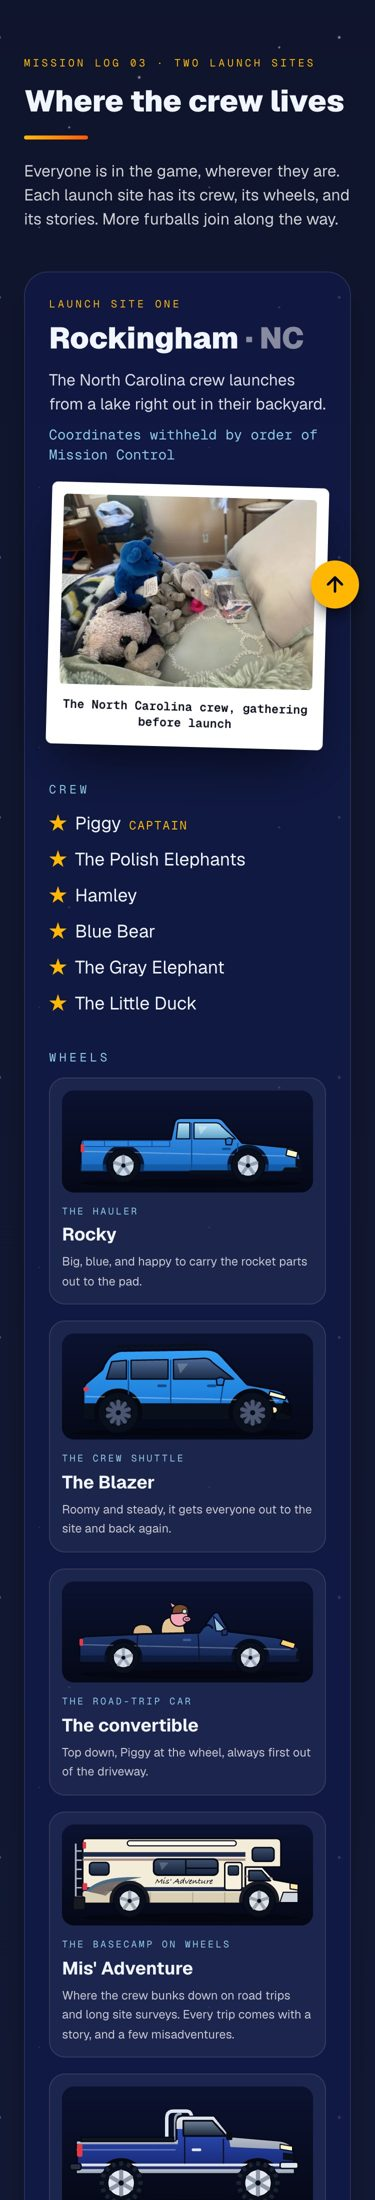
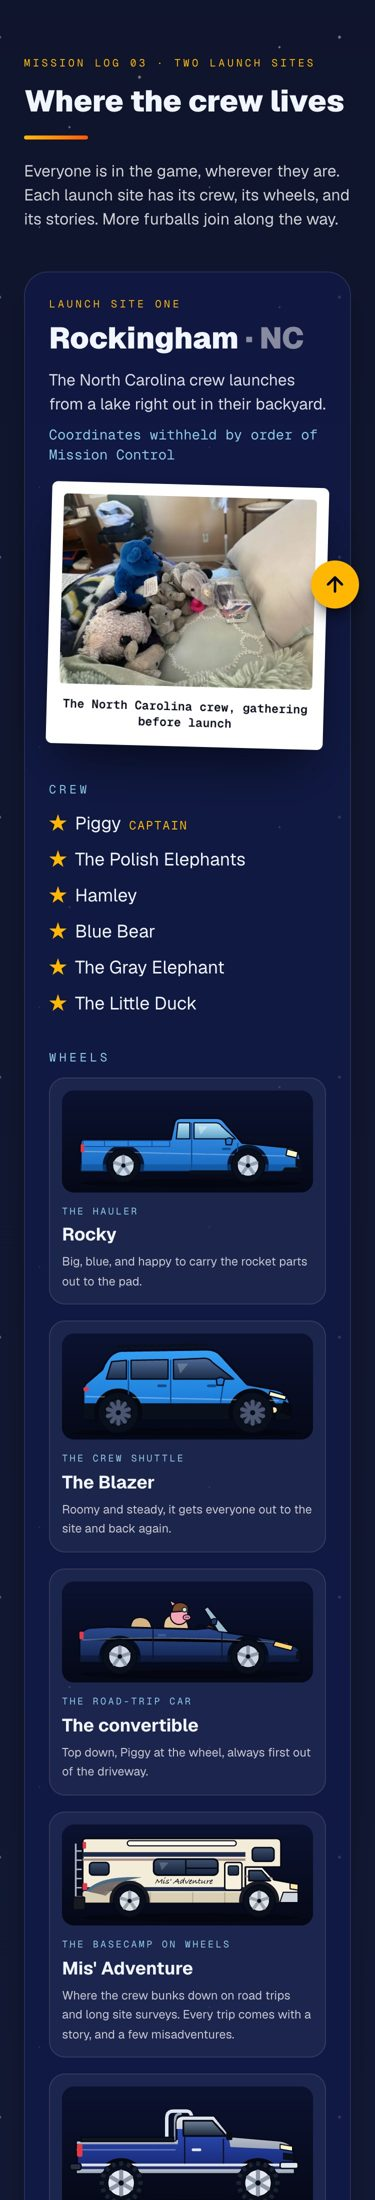
feat: redraw the convertible from the recon photos, and the S10 dragster quest in the ledger

diff --git a/apps/web/src/components/fleet/Convertible.tsx b/apps/web/src/components/fleet/Convertible.tsx
@@ -1,10 +1,11 @@
 import Wheel from "./Wheel";
 
-// The convertible: a low, dark blue drop-top with a tan interior, roof down. Piggy is at the wheel,
+// The convertible: a long, low, dark blue drop-top with a tan interior, silver wheels, and the roof
+// folded away, from the reference photos. Piggy is at the wheel,
 // proposed, he is the first to jump at a road trip. An original drawing, no plates, badges,
 // logos, or backgrounds.
 const BODY =
-  "M 22,152 L 22,118 Q 22,110 32,108 L 130,104 L 224,102 L 246,72 Q 250,66 256,68 L 274,100 L 340,108 Q 380,112 392,130 L 394,146 Q 394,152 386,152 Z";
+  "M 22,152 L 22,116 Q 22,98 38,94 L 70,92 L 218,96 L 240,94 L 272,102 L 340,112 Q 378,116 392,130 L 394,146 Q 394,152 386,152 Z";
 
 export default function Convertible() {
   return (
@@ -21,11 +22,12 @@ export default function Convertible() {
       <ellipse cx="210" cy="172" rx="186" ry="7" fill="#000" opacity="0.35" />
       <g className="fleet-body">
         {/* interior, seats and dash, behind the side of the car */}
-        <path d="M 112,104 Q 112,88 128,88 Q 144,88 146,104 Z" fill="#d6b384" stroke="#050816" strokeWidth="2" strokeLinejoin="round" />
-        <path d="M 160,104 Q 158,76 178,76 Q 198,76 200,104 Z" fill="#e3c394" stroke="#050816" strokeWidth="2" strokeLinejoin="round" />
-        <path d="M 226,102 L 242,86 L 262,100 Z" fill="#4a3822" stroke="#050816" strokeWidth="2" strokeLinejoin="round" />
+        <path d="M 108,96 Q 108,76 124,76 Q 142,76 144,96 Z" fill="#d6b384" stroke="#050816" strokeWidth="2" strokeLinejoin="round" />
+        <path d="M 164,96 Q 162,72 182,72 Q 204,72 206,96 Z" fill="#e3c394" stroke="#050816" strokeWidth="2" strokeLinejoin="round" />
+        <path d="M 40,94 L 108,90 L 108,98 L 38,100 Z" fill="#12161f" />
+        <path d="M 228,98 L 240,88 L 262,102 Z" fill="#4a3822" stroke="#050816" strokeWidth="2" strokeLinejoin="round" />
         {/* Piggy, proposed: a pink pilot pig in a brown aviator cap and goggles */}
-        <g>
+        <g transform="translate(0,-3)">
           <circle cx="190" cy="76" r="15" fill="#f4a6b8" stroke="#050816" strokeWidth="2" />
           <path d="M 178,70 Q 178,54 192,54 Q 206,55 206,68 Z" fill="#7a4a2a" stroke="#050816" strokeWidth="2" strokeLinejoin="round" />
           <path d="M 196,68 q 4,-2 8,1" stroke="#3a2a1a" strokeWidth="3" fill="none" strokeLinecap="round" />
@@ -37,25 +39,25 @@ export default function Convertible() {
         </g>
         <path d={BODY} fill="url(#conv-paint)" stroke="#050816" strokeWidth="3" strokeLinejoin="round" />
         <g clipPath="url(#conv-clip)">
-          <circle cx="96" cy="144" r="32" fill="#050c1c" />
-          <circle cx="310" cy="144" r="32" fill="#050c1c" />
+          <circle cx="90" cy="142" r="35" fill="#050c1c" />
+          <circle cx="306" cy="142" r="35" fill="#050c1c" />
           <rect x="20" y="140" width="380" height="14" fill="#0a1430" opacity="0.6" />
         </g>
         {/* windshield, steering wheel */}
-        <path d="M 248,74 L 270,99 L 252,99 Z" fill="#bfe6f7" opacity="0.8" stroke="#050816" strokeWidth="2" strokeLinejoin="round" />
-        <path d="M 232,92 q 8,-7 14,2" stroke="#050816" strokeWidth="3" fill="none" strokeLinecap="round" />
+        <path d="M 238,58 L 274,102 L 256,100 L 232,62 Z" fill="#bfe6f7" opacity="0.8" stroke="#050816" strokeWidth="2" strokeLinejoin="round" />
+        <path d="M 220,92 q 8,-7 14,2" stroke="#050816" strokeWidth="3" fill="none" strokeLinecap="round" />
         {/* body lines, door handle, mirror */}
-        <path d="M 26,122 L 376,130" stroke="#fff" strokeOpacity="0.28" strokeWidth="2" strokeLinecap="round" />
-        <path d="M 120,106 L 118,148 M 222,104 L 224,148" stroke="#0a1430" strokeWidth="2" />
-        <rect x="196" y="112" width="14" height="4" rx="2" fill="#3b5aa0" />
-        <path d="M 262,98 q 6,-4 10,0 l -2,8 l -8,0 z" fill="#1b3366" stroke="#050816" strokeWidth="2" strokeLinejoin="round" />
+        <path d="M 28,114 Q 200,106 372,120" stroke="#fff" strokeOpacity="0.28" strokeWidth="2" strokeLinecap="round" />
+        <path d="M 146,96 L 146,146 M 262,102 L 262,146" stroke="#0a1430" strokeWidth="2" />
+        <rect x="154" y="104" width="14" height="4" rx="2" fill="#3b5aa0" />
+        <path d="M 244,80 q 6,-4 10,0 l -2,8 l -8,0 z" fill="#1b3366" stroke="#050816" strokeWidth="2" strokeLinejoin="round" />
         {/* lights and front end */}
-        <path d="M 364,113 L 386,120 L 383,129 L 360,122 Z" fill="#ffcf70" stroke="#050816" strokeWidth="2" strokeLinejoin="round" />
+        <path d="M 352,116 L 382,124 L 379,132 L 348,124 Z" fill="#ffcf70" stroke="#050816" strokeWidth="2" strokeLinejoin="round" />
         <path d="M 388,132 L 394,134 L 394,148 L 386,146 Z" fill="#0a0f1c" />
-        <rect x="22" y="112" width="6" height="12" rx="2" fill="#e63946" />
+        <rect x="22" y="100" width="7" height="13" rx="2" fill="#e63946" />
       </g>
-      <Wheel cx={96} cy={144} r={26} rim="#d7dde6" spoke="#9aa8ba" />
-      <Wheel cx={310} cy={144} r={26} rim="#d7dde6" spoke="#9aa8ba" />
+      <Wheel cx={90} cy={142} r={29} rim="#cfd6e0" spoke="#8d99ac" spokes={5} />
+      <Wheel cx={306} cy={142} r={29} rim="#cfd6e0" spoke="#8d99ac" spokes={5} />
     </svg>
   );
 }

diff --git a/docs/characters.md b/docs/characters.md
@@ -79,7 +79,7 @@ public-safe and confirmed, add it to `crew.py` in the same change.
 
 - **The binder is the game's navigation.** The elephants' tabbed binder, colored dividers and all, becomes the main UI, one tab each for the Brief, Research, Missions, Parts, Journal, and Debrief, so the research and journaling they are proud of is the thing the player flips through. The journal pages are the mission debrief. *Proposed, from Rob's binder idea.*
 - **Piggy borrows their devices.** He already winds up at the helm of the iPad Pro and the MacBook Pro, with their own, he can borrow the elephants' and teach them what the buttons do. *Proposed.*
-- **The S10 dragster.** The furballs have been peeking around the Rockingham house and found a Chevy S10 they would like to turn into a dragster, on a Corvette frame of all things, they came up with their own rendering. A great quest for the game, drawn as an original toy-style truck with no sponsor names, logos, or badges. *Proposed, from Rob.*
+- **Quest: build the S10 dragster.** The furballs have been peeking around the Rockingham house and found a Chevy S10 they would like to turn into a dragster, on a Corvette frame of all things, they came up with their own rendering. Rob loves the idea of a quest being to build it. The rendering carries the Helin Racing name on purpose, that is intentional for the game, so the livery keeps it. Drawn as an original toy-style truck, no Corvette or Chevrolet badges. *Proposed quest, Rob's pick.*
 - Keep the binder generic, a tabbed 3-ring binder, no brand marks or logos on the public site.
 
 ## All furballs
@@ -98,6 +98,7 @@ public-safe and confirmed, add it to `crew.py` in the same change.
 | 2026-11-14 | The Blazer | Two side doors, a front door and a mid door, no rear door on the side | confirmed |
 | 2026-11-14 | The Blazer | The crew shuttle | **proposed** |
 | 2026-11-14 | The convertible | A dark blue drop-top with a tan interior | confirmed |
+| 2026-11-14 | The convertible | Long and low, dark blue with silver alloy wheels, a tan top and interior, looks like a Chrysler Sebring, the Polish elephants did the recon and took the photos | confirmed |
 | 2026-11-14 | The convertible | The road-trip car, Piggy at the wheel | **proposed** |
 | 2026-11-14 | Mis' Adventure | The RV, named by Rob, a pun on misadventure, in retro script on the side | confirmed |
 | 2026-11-14 | Mis' Adventure | A cream motorhome with navy and slate swoosh stripes, a big window, an awning, a ladder up the back | confirmed |
